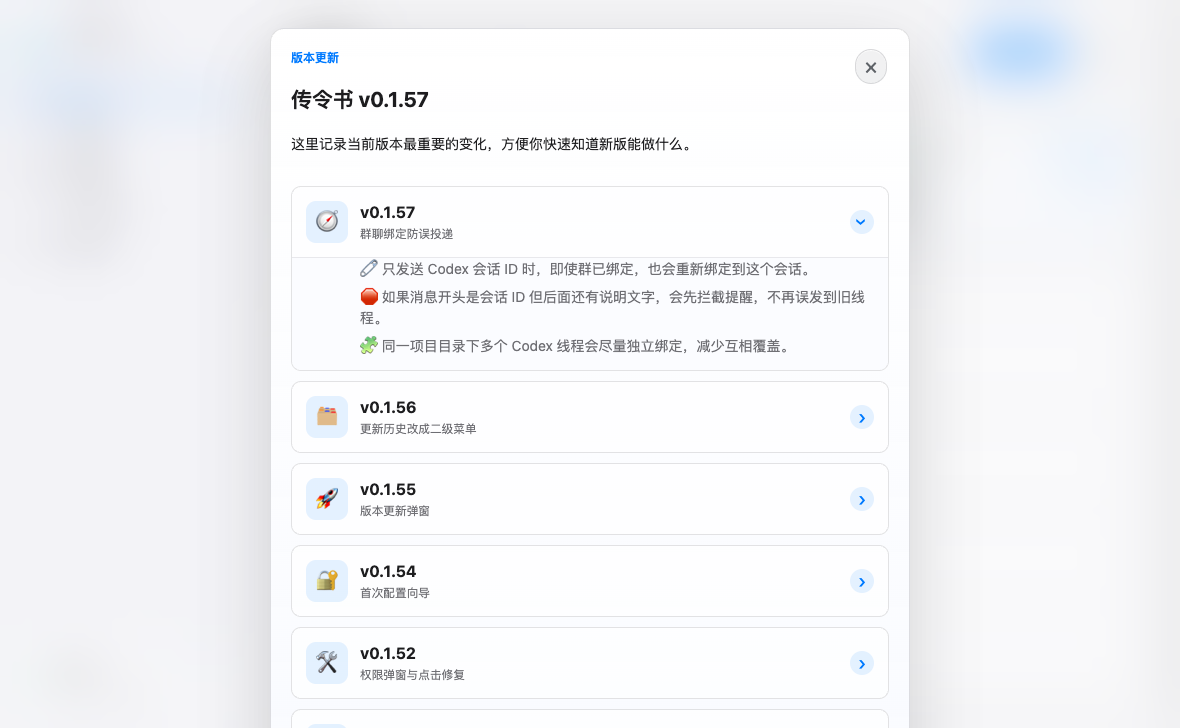
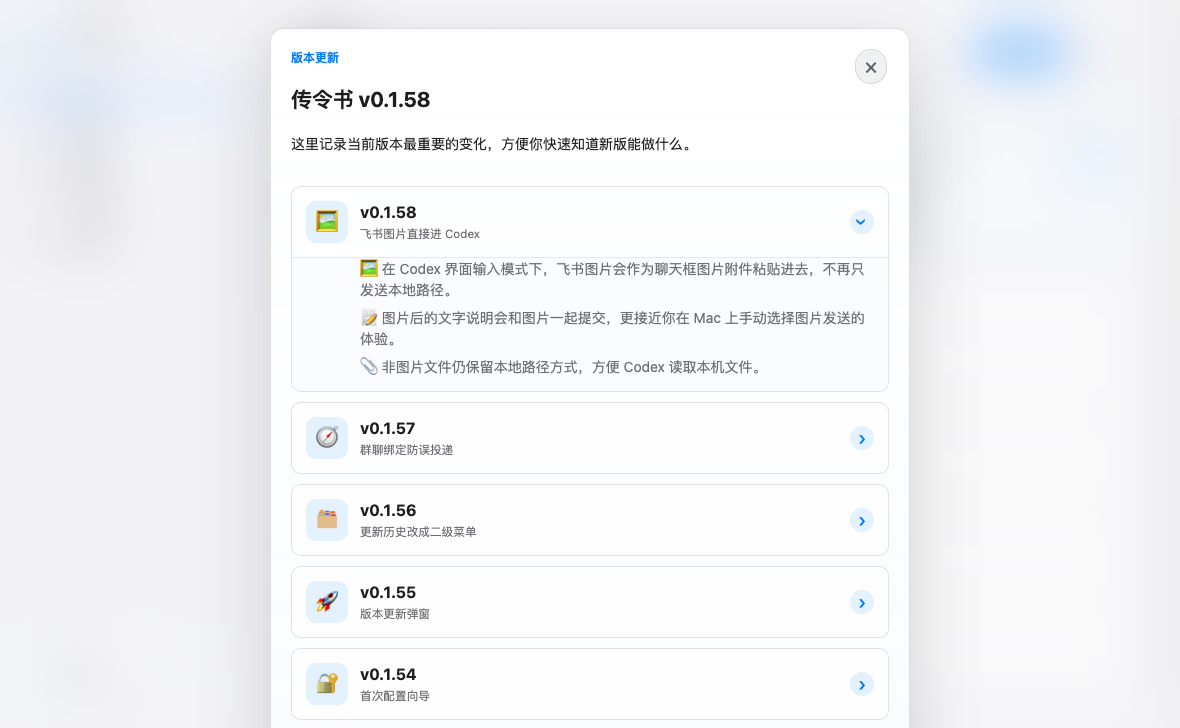
Paste Feishu images into Codex UI

diff --git a/src/renderer/index.html b/src/renderer/index.html
@@ -562,6 +562,20 @@
         <div class="release-notes-list">
           <details class="release-note-version">
             <summary>
+              <span class="release-note-icon" aria-hidden="true">🖼</span>
+              <span>
+                <strong>v0.1.58</strong>
+                <small>飞书图片直接进 Codex</small>
+              </span>
+            </summary>
+            <div class="release-note-body">
+              <p>🖼 在 Codex 界面输入模式下，飞书图片会作为聊天框图片附件粘贴进去，不再只发送本地路径。</p>
+              <p>📝 图片后的文字说明会和图片一起提交，更接近你在 Mac 上手动选择图片发送的体验。</p>
+              <p>📎 非图片文件仍保留本地路径方式，方便 Codex 读取本机文件。</p>
+            </div>
+          </details>
+          <details class="release-note-version">
+            <summary>
               <span class="release-note-icon" aria-hidden="true">🧭</span>
               <span>
                 <strong>v0.1.57</strong>

diff --git a/README.md b/README.md
@@ -40,6 +40,7 @@
 - 支持飞书控制面板 `/panel`：查看当前会话绑定、下拉选择项目、刷新面板、查看当前项目状态。
 - app-server 模式支持按项目维度排队；Codex 界面输入模式下，同群同线程的新消息会直接继续发送到已绑定 Codex 线程，不再进入应用自己的任务队列。
 - 支持在飞书里直接发送图片或文件：如果消息里同时有文字，会立即合并发送给 Codex；如果只发附件，会先暂存，等待下一条文字说明后再合并发送。
+- 在 Codex 界面输入模式下，飞书图片会作为 Codex 聊天框图片附件粘贴进去；非图片文件仍会把本机路径发给 Codex 读取。
 - 支持 Codex 结果文件回传：最终回复里明确出现的项目目录内产物文件会自动上传回飞书；图片会优先按飞书图片消息发送，方便手机直接预览。
 - 支持 GitHub Releases 更新检查：发现新版本时，左下角状态卡片会显示“更新”入口，点击后打开 GitHub 更新列表。
 - 支持应用内版本历史：点击版本号会打开更新内容窗口，历史版本按二级菜单折叠展示。
@@ -69,7 +70,7 @@
 /mode appserver
 ```
 
-选择项目并绑定现有 Codex 线程后，直接发送普通文本、图片或文件即可继续对应 Codex 线程。飞书附件会保存到 Electron userData 下的 `feishu-attachments/日期/项目名/`，并以本机绝对路径发给 Codex。
+选择项目并绑定现有 Codex 线程后，直接发送普通文本、图片或文件即可继续对应 Codex 线程。飞书附件会保存到 Electron userData 下的 `feishu-attachments/日期/项目名/`。在 Codex 界面输入模式下，图片会像你手动在 Codex App 里插入图片一样粘贴到聊天框；文件以及非界面输入模式仍会用本机绝对路径交给 Codex。
 
 新建一个飞书群并把机器人拉进去后，可以第一句话直接发送 Codex 会话 ID，例如 `xxxxxxxx-xxxx-xxxx-xxxx-xxxxxxxxxxxx`。如果这个线程已经属于已有项目，应用会直接把当前群绑定到该项目；如果能从 Codex 线程列表或本机 `~/.codex/sessions` 日志里查到线程目录，应用会自动创建项目并绑定；如果查不到目录且本机只有一个项目，会默认绑定到这个唯一项目。需要手动触发时也可以发送 `/bind-thread codex_thread_id`。
 
